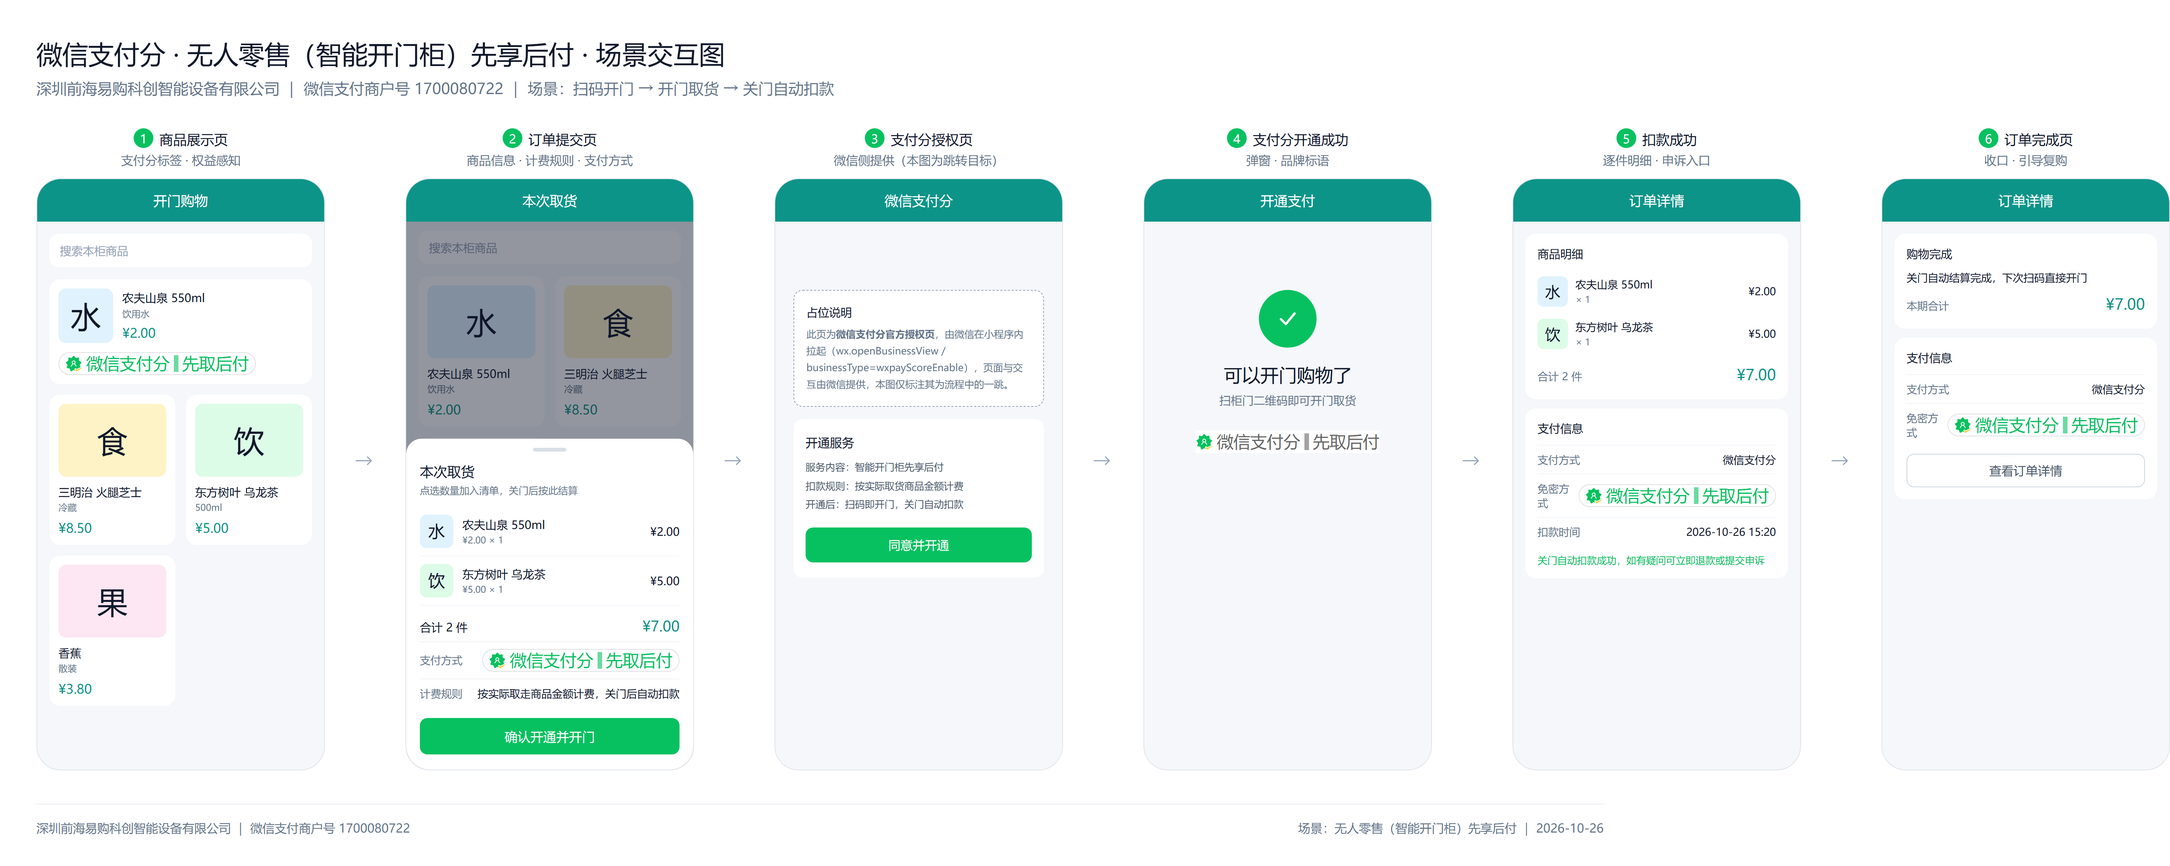
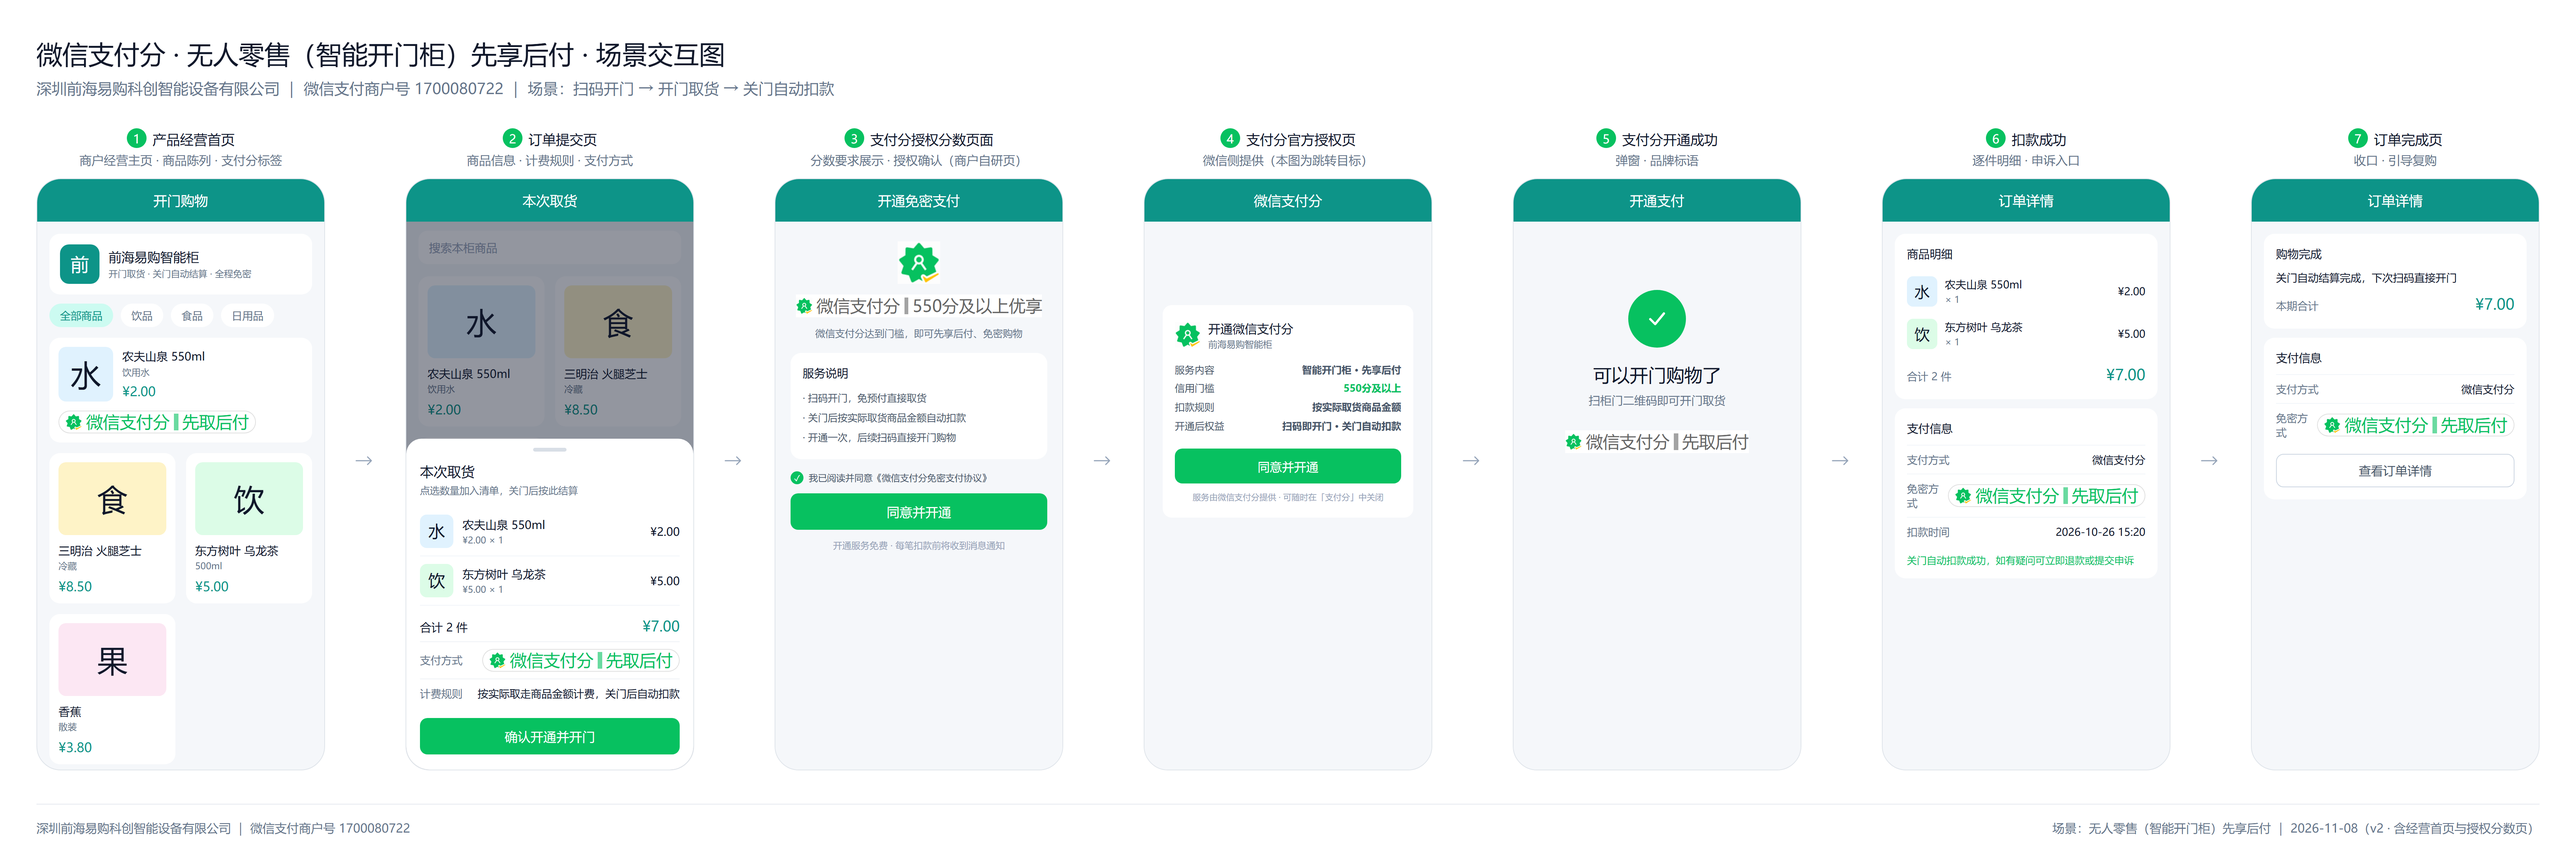
docs(payscore): 收编支付分交互图 v2 整改（商户平台驳回后重做，peer 在制完工件）
屏①升级产品经营首页（品牌头部+分类+商品网格）；新增屏③支付分授权分数页（带分数要求版标语
「微信支付分 | 550分及以上优享」，规范 P5 + 驳回双重要求，minScore=550 必须露出）；屏④官方授权页
实态绘制。屏数 6→7，图 3392×1141@2x。spec 记录驳回原文/判读/重新提交注意。

diff --git a/scripts/templates/payscore-interaction-figure.html b/scripts/templates/payscore-interaction-figure.html
@@ -19,7 +19,9 @@
         color: #0f172a;
       }
       .canvas {
-        width: 2160px;
+        /* 🔴 2026-11-08 驳回整改：补充「产品经营首页」「支付分授权分数页面」两屏
+           ⇒ 屏数 6→7，画布改为随内容自适应（生成脚本按 element 宽度截图） */
+        width: max-content;
         padding: 48px 48px 40px;
       }
 
@@ -119,7 +121,55 @@
         display: block;
       }
 
-      /* ── ① 商品展示页 ─────────────────────────────────── */
+      /* ── ① 产品经营首页（2026-11-08 驳回整改：由「商品展示页」升级） ── */
+      .shop-head {
+        display: flex;
+        align-items: center;
+        gap: 12px;
+        background: #fff;
+        border-radius: 14px;
+        padding: 14px;
+        margin-bottom: 12px;
+      }
+      .shop-avatar {
+        width: 52px;
+        height: 52px;
+        border-radius: 12px;
+        background: #0d9488;
+        color: #fff;
+        font-size: 24px;
+        font-weight: 500;
+        display: flex;
+        align-items: center;
+        justify-content: center;
+        flex-shrink: 0;
+      }
+      .shop-name {
+        font-size: 17px;
+        font-weight: 500;
+      }
+      .shop-sub {
+        font-size: 12px;
+        color: #64748b;
+        margin-top: 3px;
+      }
+      .cat-tabs {
+        display: flex;
+        gap: 10px;
+        margin-bottom: 14px;
+      }
+      .cat-tab {
+        font-size: 14px;
+        color: #64748b;
+        background: #fff;
+        border-radius: 16px;
+        padding: 6px 14px;
+      }
+      .cat-tab--on {
+        color: #0d9488;
+        font-weight: 500;
+        background: #ccfbf1;
+      }
       .catalog {
         padding: 16px;
       }
@@ -403,6 +453,75 @@
         color: #475569;
       }
 
+      /* ── ③ 支付分授权分数页面（2026-11-08 驳回整改：新增） ──
+         规范 P5：业务有明确分数要求 ⇒ 必须用「带分数要求版」标语
+         （微信支付分 | 550分及以上优享），分数文案独立展示。 */
+      .auth-score {
+        position: absolute;
+        inset: 0;
+        background: #f5f7fa;
+        display: flex;
+        flex-direction: column;
+        align-items: center;
+        padding: 26px 20px 0;
+      }
+      .auth-logo {
+        width: 56px;
+        height: 56px;
+        margin-bottom: 14px;
+      }
+      .auth-score-hint {
+        font-size: 13px;
+        color: #64748b;
+        margin: 12px 0 18px;
+      }
+      .auth-card {
+        width: 100%;
+        background: #fff;
+        border-radius: 14px;
+        padding: 16px;
+      }
+      .auth-card-title {
+        font-size: 15px;
+        font-weight: 500;
+        margin-bottom: 10px;
+      }
+      .auth-line {
+        font-size: 13px;
+        color: #475569;
+        line-height: 2;
+      }
+      .auth-agree-row {
+        display: flex;
+        align-items: center;
+        gap: 7px;
+        font-size: 12px;
+        color: #475569;
+        margin: 16px 0 12px;
+        align-self: flex-start;
+      }
+      .auth-check {
+        width: 17px;
+        height: 17px;
+        border-radius: 50%;
+        background: #07c160;
+        color: #fff;
+        font-size: 11px;
+        display: flex;
+        align-items: center;
+        justify-content: center;
+        flex-shrink: 0;
+      }
+      .auth-foot {
+        font-size: 12px;
+        color: #94a3b8;
+        margin-top: 12px;
+      }
+      .auth-score .btn-primary {
+        width: 100%;
+        margin-top: 0;
+      }
+
       /* ── ③ 支付分开通成功 ─────────────────────────────── */
       .done-wrap {
         position: absolute;
@@ -589,17 +708,29 @@
       </div>
 
       <div class="screens">
-        <!-- ① 商品展示页 -->
+        <!-- ① 产品经营首页 -->
         <div class="screen">
           <div class="screen-cap">
-            <span class="screen-step"><span class="screen-step-no">1</span>商品展示页</span>
-            <div class="screen-name">支付分标签 · 权益感知</div>
+            <span class="screen-step"><span class="screen-step-no">1</span>产品经营首页</span>
+            <div class="screen-name">商户经营主页 · 商品陈列 · 支付分标签</div>
           </div>
           <div class="phone">
             <div class="phone-bar">开门购物</div>
             <div class="phone-body">
               <div class="catalog">
-                <div class="search">搜索本柜商品</div>
+                <div class="shop-head">
+                  <div class="shop-avatar">前</div>
+                  <div>
+                    <div class="shop-name">前海易购智能柜</div>
+                    <div class="shop-sub">开门取货 · 关门自动结算 · 全程免密</div>
+                  </div>
+                </div>
+                <div class="cat-tabs">
+                  <span class="cat-tab cat-tab--on">全部商品</span>
+                  <span class="cat-tab">饮品</span>
+                  <span class="cat-tab">食品</span>
+                  <span class="cat-tab">日用品</span>
+                </div>
                 <div class="grid">
                   <div class="pcard pcard--tagged">
                     <div class="pthumb t1">水</div>
@@ -744,29 +875,89 @@
           </svg>
         </div>
 
+        <!-- ③ 支付分授权分数页面（2026-11-08 驳回整改新增） -->
+        <div class="screen">
+          <div class="screen-cap">
+            <span class="screen-step"><span class="screen-step-no">3</span>支付分授权分数页面</span>
+            <div class="screen-name">分数要求展示 · 授权确认（商户自研页）</div>
+          </div>
+          <div class="phone">
+            <div class="phone-bar">开通免密支付</div>
+            <div class="phone-body">
+              <div class="auth-score">
+                <img class="auth-logo" src="__LOGO__" alt="" />
+                <div class="auth-score-tag">
+                  <span class="ps-tag ps-tag--slogan">
+                    <img class="ps-tag__logo" src="__LOGO__" alt="" />
+                    <span class="ps-tag__brand">微信支付分</span>
+                    <span class="ps-tag__sep"></span>
+                    <span class="ps-tag__biz">550分及以上优享</span>
+                  </span>
+                </div>
+                <div class="auth-score-hint">微信支付分达到门槛，即可先享后付、免密购物</div>
+                <div class="auth-card">
+                  <div class="auth-card-title">服务说明</div>
+                  <div class="auth-line">· 扫码开门，免预付直接取货</div>
+                  <div class="auth-line">· 关门后按实际取货商品金额自动扣款</div>
+                  <div class="auth-line">· 开通一次，后续扫码直接开门购物</div>
+                </div>
+                <div class="auth-agree-row">
+                  <span class="auth-check">✓</span> 我已阅读并同意《微信支付分免密支付协议》
+                </div>
+                <div class="btn-primary">同意并开通</div>
+                <div class="auth-foot">开通服务免费 · 每笔扣款前将收到消息通知</div>
+              </div>
+            </div>
+          </div>
+        </div>
+
+        <div class="arrow-col">
+          <svg width="26" height="16" viewBox="0 0 26 16">
+            <path
+              d="M1 8h20M16 3l5 5-5 5"
+              fill="none"
+              stroke="#94a3b8"
+              stroke-width="1.5"
+              stroke-linecap="round"
+              stroke-linejoin="round"
+            />
+          </svg>
+        </div>
+
         <!-- 微信授权页（占位） -->
         <div class="screen">
           <div class="screen-cap">
-            <span class="screen-step"><span class="screen-step-no">3</span>支付分授权页</span>
+            <span class="screen-step"><span class="screen-step-no">4</span>支付分官方授权页</span>
             <div class="screen-name">微信侧提供（本图为跳转目标）</div>
           </div>
           <div class="phone">
             <div class="phone-bar">微信支付分</div>
             <div class="phone-body">
               <div class="wx-auth">
-                <div class="wx-auth-note">
-                  <div class="wx-auth-title">占位说明</div>
-                  <div class="wx-auth-text">
-                    此页为<b>微信支付分官方授权页</b>，由微信在小程序内拉起（wx.openBusinessView /
-                    businessType=wxpayScoreEnable），页面与交互由微信提供，本图仅标注其为流程中的一跳。
+                <div class="wx-page" style="margin-top: 20px">
+                  <div style="display: flex; align-items: center; gap: 10px; margin-bottom: 14px">
+                    <img class="ps-tag__logo" src="__LOGO__" alt="" style="width: 34px; height: 34px" />
+                    <div>
+                      <div class="wx-page-title" style="margin-bottom: 2px">开通微信支付分</div>
+                      <div style="font-size: 12px; color: #64748b">前海易购智能柜</div>
+                    </div>
                   </div>
-                </div>
-                <div class="wx-page">
-                  <div class="wx-page-title">开通服务</div>
-                  <div class="wx-page-line">服务内容：智能开门柜先享后付</div>
-                  <div class="wx-page-line">扣款规则：按实际取货商品金额计费</div>
-                  <div class="wx-page-line">开通后：扫码即开门，关门自动扣款</div>
+                  <div class="wx-page-line" style="display: flex; justify-content: space-between">
+                    <span>服务内容</span><b>智能开门柜 · 先享后付</b>
+                  </div>
+                  <div class="wx-page-line" style="display: flex; justify-content: space-between">
+                    <span>信用门槛</span><b style="color: #07c160">550分及以上</b>
+                  </div>
+                  <div class="wx-page-line" style="display: flex; justify-content: space-between">
+                    <span>扣款规则</span><b>按实际取货商品金额</b>
+                  </div>
+                  <div class="wx-page-line" style="display: flex; justify-content: space-between">
+                    <span>开通后权益</span><b>扫码即开门 · 关门自动扣款</b>
+                  </div>
                   <div class="wx-agree">同意并开通</div>
+                  <div style="font-size: 11px; color: #94a3b8; text-align: center; margin-top: 10px">
+                    服务由微信支付分提供 · 可随时在「支付分」中关闭
+                  </div>
                 </div>
               </div>
             </div>
@@ -789,7 +980,7 @@
         <!-- ③ 开通成功 -->
         <div class="screen">
           <div class="screen-cap">
-            <span class="screen-step"><span class="screen-step-no">4</span>支付分开通成功</span>
+            <span class="screen-step"><span class="screen-step-no">5</span>支付分开通成功</span>
             <div class="screen-name">弹窗 · 品牌标语</div>
           </div>
           <div class="phone">
@@ -838,7 +1029,7 @@
         <!-- ④ 扣款成功 -->
         <div class="screen">
           <div class="screen-cap">
-            <span class="screen-step"><span class="screen-step-no">5</span>扣款成功</span>
+            <span class="screen-step"><span class="screen-step-no">6</span>扣款成功</span>
             <div class="screen-name">逐件明细 · 申诉入口</div>
           </div>
           <div class="phone">
@@ -910,7 +1101,7 @@
         <!-- ⑤ 订单完成页 -->
         <div class="screen">
           <div class="screen-cap">
-            <span class="screen-step"><span class="screen-step-no">6</span>订单完成页</span>
+            <span class="screen-step"><span class="screen-step-no">7</span>订单完成页</span>
             <div class="screen-name">收口 · 引导复购</div>
           </div>
           <div class="phone">
@@ -952,7 +1143,7 @@
 
       <div class="doc-foot">
         <span>深圳前海易购科创智能设备有限公司 ｜ 微信支付商户号 1700080722</span>
-        <span>场景：无人零售（智能开门柜）先享后付 ｜ 2026-10-26</span>
+        <span>场景：无人零售（智能开门柜）先享后付 ｜ 2026-11-08（v2 · 含经营首页与授权分数页）</span>
       </div>
     </div>
   </body>

diff --git a/docs/PAYSCORE_INTERACTION_SPEC_2026-10-26.md b/docs/PAYSCORE_INTERACTION_SPEC_2026-10-26.md
@@ -216,3 +216,33 @@
 台账 CB-067 已记录：同行五形态（扫码进入 · 一次授权长期复用 · 信用分门槛准入 · 关门自动扣款 · 信用守护催收）
 与本设计**完全同构**。本规格只是把其中的「扫码进入 / 一次授权」落到**微信侧页面级**，
 并叠加微信支付分**品牌规范**这一官方特有的硬约束（R1–R10）——同行没有这层约束，故须单独取证。
+
+---
+
+## v2 整改（2026-11-08，商户平台表单驳回后）
+
+### 驳回原文
+> 提供的产品交互图不规范，请补充上传**产品经营首页**、**支付分授权分数页面**需按照要求设计提供，
+> 注：可参考提交页面的示例交互图或 https://pay.weixin.qq.com/doc/v3/merchant/4012587220
+
+### 判读
+- 4012587220 = 《支付分合作品牌线上应用规范》PDF（44 页，即本规格 R1–R12 的来源）⇒
+  官方要的是**严格按品牌规范设计**的图，不是示意流程。
+- 🔴 「支付分授权分数页面」= **带分数要求版标语**的应用页——规范 P5 原文：
+  「**如果业务有明确的微信支付分分数要求，需选择带分数要求的标准版本**」。
+  我方场景有 550 分门槛（`PayScoreProperties.minScore=550`）⇒ **必须展示「微信支付分 | 550分及以上优享」**。
+  ⚠ 之前「C 端是否露出 550 分」的待拍板项就此有了官方答案：**必须露**（规范与驳回双重要求）。
+- 「产品经营首页」= 商户经营主页（品牌头部+分类+商品），不能用纯商品列表冒充。
+
+### v2 变更（scripts/templates/payscore-interaction-figure.html）
+1. **屏① 升级为「产品经营首页」**：品牌头部（前海易购智能柜 + 服务口号）+ 分类 Tab（全部/饮品/食品/日用品）+ 商品网格（首卡带支付分标签）。
+2. **新增屏③「支付分授权分数页面」**（商户自研授权确认页，插在订单提交与官方授权页之间）：
+   官方 logo 大图 + **带分数要求版标语「微信支付分 | 550分及以上优享」**（P4 几何 1:1）+
+   分数提示 + 服务说明卡（免预付/按实际取货扣款/开通一次长期用）+ 协议勾选（手动勾）+ 「同意并开通」+「开通免费·扣款前通知」。
+3. **屏④ 官方授权页由"占位虚线"升级为实态绘制**：logo+商户名、服务内容/信用门槛(550分及以上)/扣款规则/权益 四行 + 同意并开通 + "可随时关闭"——不再有"占位说明"字样。
+4. 屏数 6→7，画布 `width: max-content` 自适应（生成脚本按 element 宽度截图，屏数再增不用改脚本）。
+5. 产物：`docs/figures/payscore-interaction-figure.png` **3392×1141 @2x，813 KB**（限 50MB ✅）。
+
+### 重新提交注意
+- 表单里删掉旧图、上传 v2 新图（同一文件名覆盖即可）。
+- 服务说明与表单「服务权益/服务说明」字段口径一致（先取货后付款）。
